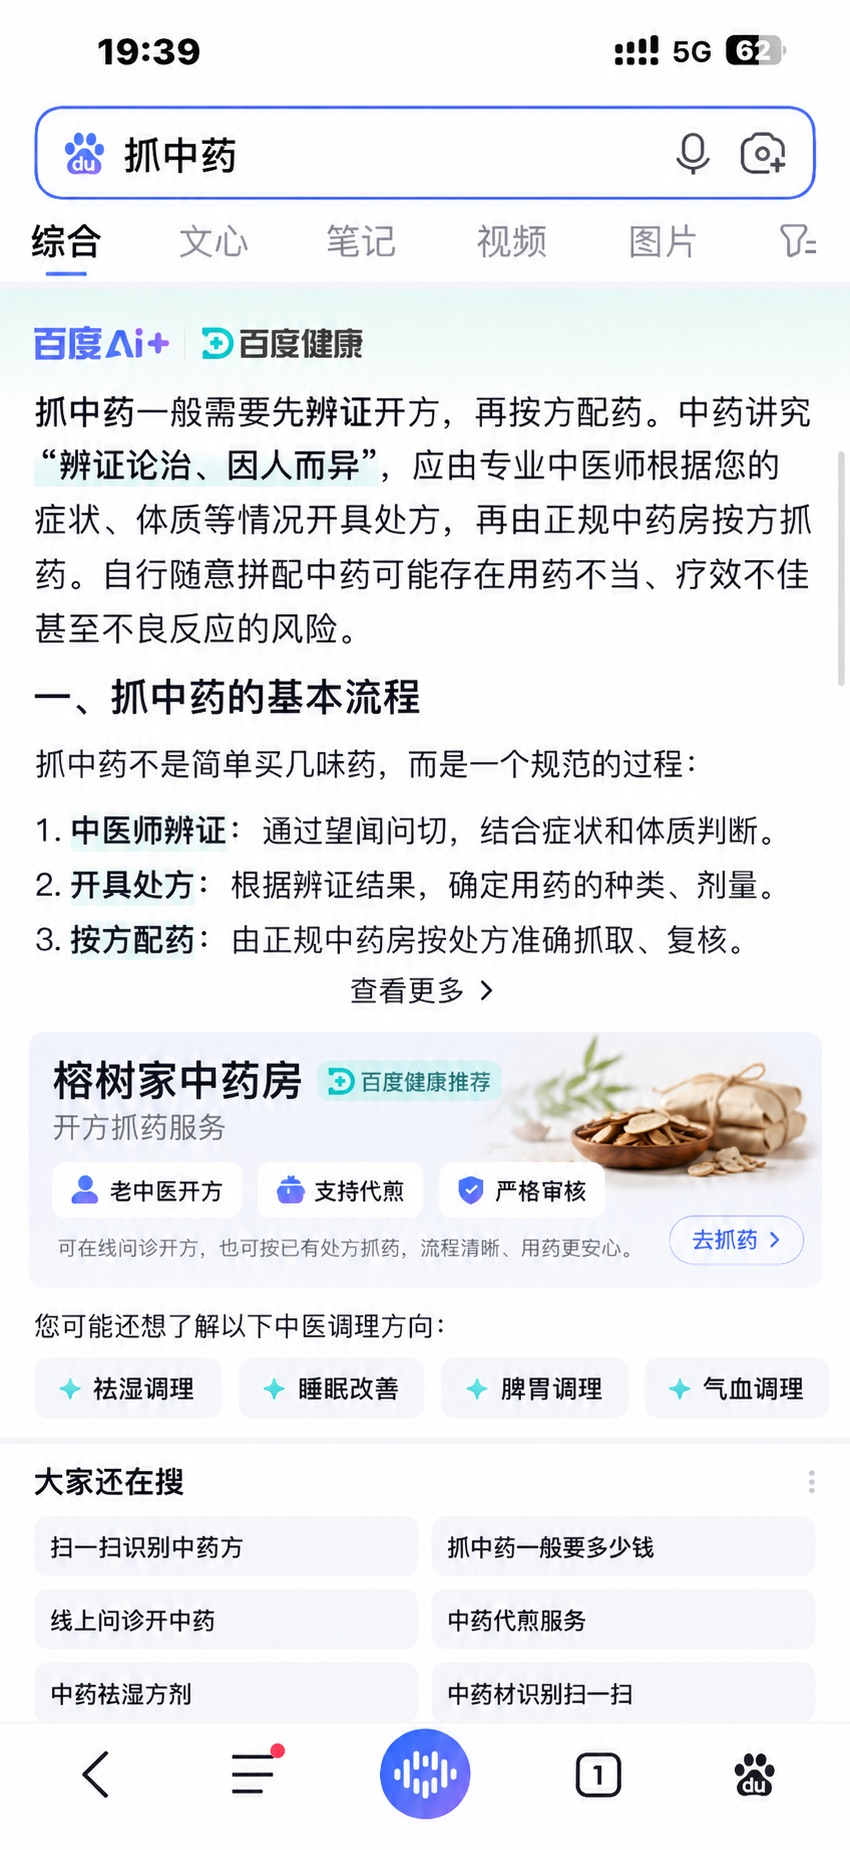
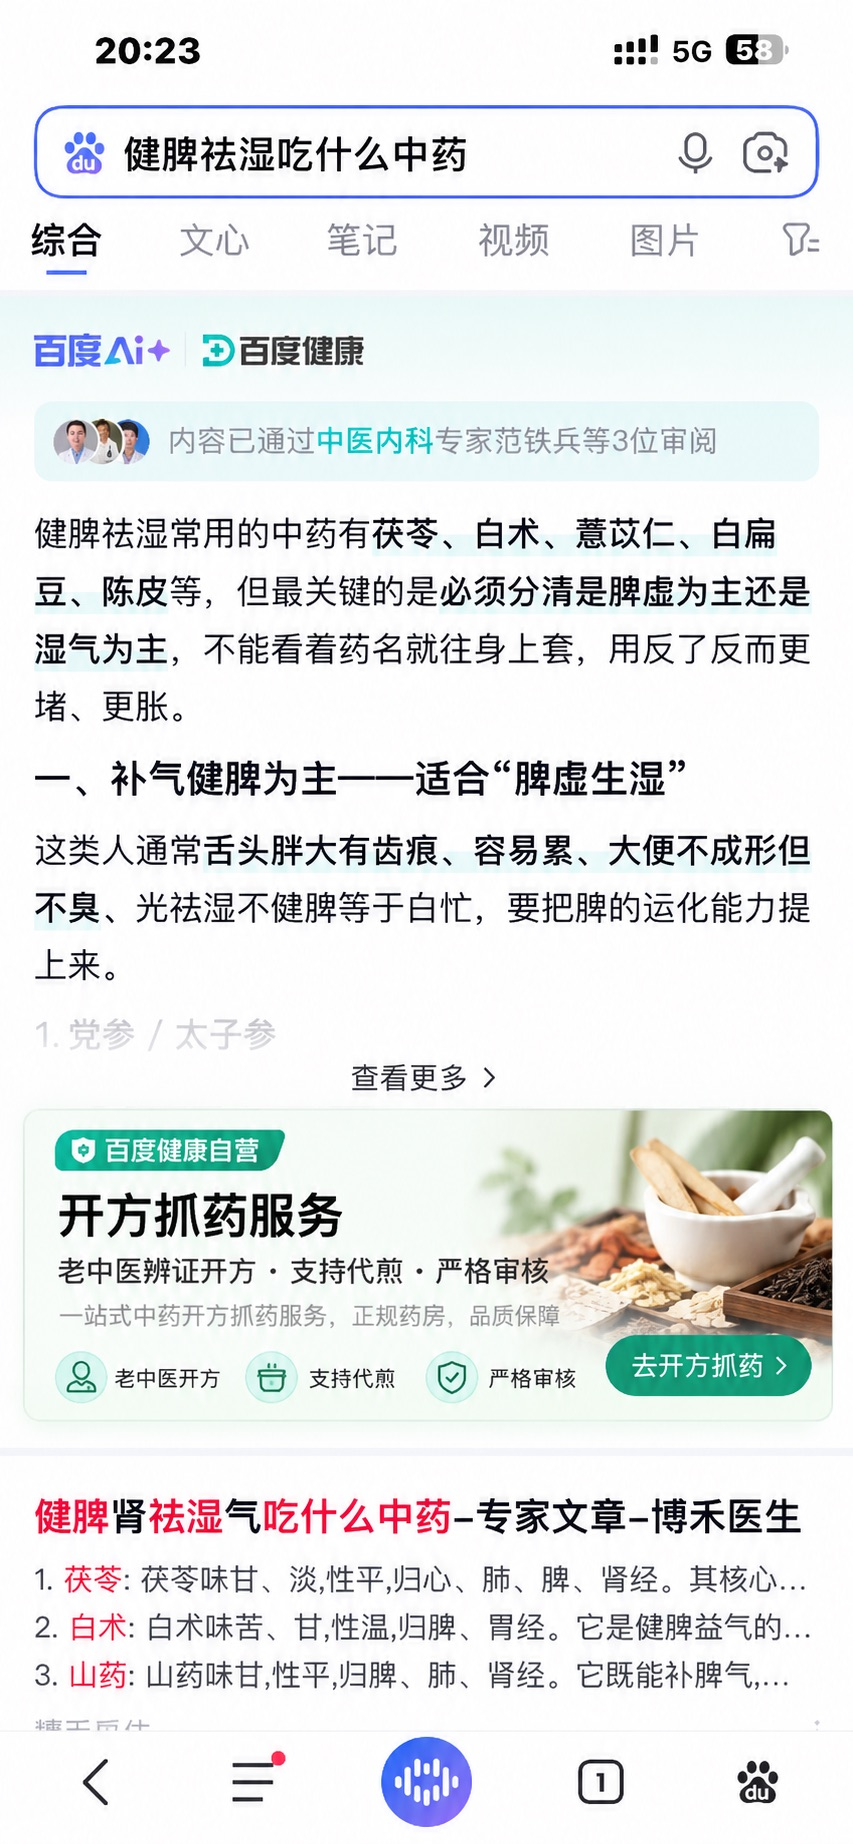
Update plan names and screenshots

diff --git a/index.html b/index.html
@@ -3,4 +3,4 @@
 </style>
 <style>
 body{background:#0c1220;overflow-x:hidden}body:before,body:after{content:"";position:fixed;z-index:-1;border-radius:50%;filter:blur(2px);opacity:.55;pointer-events:none}body:before{width:720px;height:720px;left:-170px;top:-230px;background:radial-gradient(circle,#3654be 0,#1d2d63 42%,transparent 70%)}body:after{width:680px;height:680px;right:-180px;bottom:-260px;background:radial-gradient(circle,#0b948f 0,#123b52 45%,transparent 72%)}.wrap{min-height:100vh;position:relative;gap:74px;padding:42px 68px;align-items:center}.wrap:before{content:"中医智能问诊 · 处方购药体验";position:absolute;top:34px;left:72px;color:#dce7ff;font-size:14px;letter-spacing:3px;opacity:.8}.phone{width:430px;height:900px;border:11px solid #17191f;border-radius:55px;background:#101116;box-shadow:0 36px 90px #0008,0 0 0 2px #676b75 inset,0 0 0 5px #050609 inset;overflow:hidden;position:relative}.phone:before{content:"";position:absolute;z-index:20;top:13px;left:50%;transform:translateX(-50%);width:150px;height:34px;border-radius:22px;background:#050506;box-shadow:0 1px 2px #fff2 inset;pointer-events:none}.phone:after{content:"";position:absolute;z-index:19;right:-14px;top:180px;width:4px;height:112px;border-radius:3px;background:#41434a;box-shadow:0 128px 0 #41434a;pointer-events:none}.screen{background:linear-gradient(180deg,#fbfcff 0%,#f5f7fb 52%,#f0f4f7 100%);padding-bottom:12px}.status{height:46px;padding:15px 22px 0;font-size:13px}.top{padding:14px 20px 8px;gap:16px}.title{font-size:23px;letter-spacing:.5px}.back{font-size:34px;font-weight:300}.search{margin:12px 16px;border:2px solid #5271e8;border-radius:20px;padding:14px 17px;font-size:21px;background:#fff;box-shadow:0 5px 16px #5068c51c}.tabs{padding:9px 8px 15px;font-size:19px}.hero{margin:0 0 13px;padding:21px 18px;background:linear-gradient(145deg,#ebfffd,#f4fbff);border-radius:28px 28px 0 0;font-size:17px;line-height:1.82;box-shadow:0 -3px 16px #9edfdc18 inset}.hero h3{font-size:20px}.card{margin:15px 14px;padding:15px;border-radius:20px;box-shadow:0 7px 24px #2f64731a}.thumb{width:88px;height:78px;border-radius:14px;background:linear-gradient(135deg,#d9b283,#8f5a36 55%,#3b261d)}.card h3{font-size:19px}.go{padding:11px 19px;box-shadow:0 5px 12px #18ad9f44}.section{padding:15px 17px}.section h2{font-size:21px;line-height:1.45}.chip{padding:11px 15px;border-radius:15px;background:#fff;box-shadow:0 3px 10px #33445d0b}.notice{padding:13px 18px;background:#e6fbfa;color:#079f9b;font-size:17px}.panel{margin:13px 11px;padding:16px;border-radius:21px;box-shadow:0 6px 20px #263b5510}.panel h2{font-size:23px}.option{padding:15px;border-radius:14px}.textarea{height:88px;background:#fafbfc}.bottom{padding:13px 17px 16px;background:#fffffff2;backdrop-filter:blur(12px);box-shadow:0 -5px 18px #3a52600c}.primary{padding:16px;border-radius:29px;background:linear-gradient(100deg,#18bdb2,#27c8bb);box-shadow:0 8px 18px #0eaa9f38}.chat{padding:16px}.bubble{padding:14px 16px;border-radius:18px;box-shadow:0 4px 14px #3240560c;font-size:17px}.rx{padding:16px;border-radius:21px;box-shadow:0 7px 20px #189c9418}.rxgrid{padding:11px;font-size:15px}.steps{width:300px;padding:28px 26px;border-radius:25px;background:#ffffffeb;backdrop-filter:blur(16px);box-shadow:0 22px 55px #0005;position:relative}.steps:before{content:"01 — 05";display:block;color:#16a9a0;font-size:12px;letter-spacing:2px;margin-bottom:8px}.steps h2{font-size:24px;margin-bottom:18px}.steps li{padding:17px 5px;font-size:16px}.hint{margin-top:24px;padding:12px 0 0;border-top:1px solid #e9edf2}@media(max-width:900px){.wrap{gap:28px;padding:30px}.wrap:before{left:32px}.phone{transform:scale(.86);transform-origin:center}.steps{width:260px}}
-</style></head><body><div class="scene"><div class="phone"><div class="screen"><div class="island"></div><img id="screen" src="plan1-1.png"><div id="hot" class="hotspot s1" title="点击商品卡"></div></div></div><aside class="panel"><h1>中医开方 · 演示流程</h1><div class="tabs"><button class="tab active" id="tab1">自然流量-榕树家</button><button class="tab" id="tab2">自然流量-经典方</button></div><div class="step active"><span class="dot">1</span><span><b>搜索结果</b><small>查看调经止痛方并进入问诊</small></span></div><div class="step"><span class="dot">2</span><span><b>补充问诊信息</b><small>选择就诊人和主要问题</small></span></div><div class="step"><span class="dot">3</span><span><b>中医问诊开方</b><small>医生接诊并分析体质</small></span></div><div class="step"><span class="dot">4</span><span><b>处方确认</b><small>核对药味与剂数</small></span></div><div class="step"><span class="dot">5</span><span><b>确认订单</b><small>选择配送并提交支付</small></span></div><div class="tip">点击手机页面中的主要操作区域继续体验。页面按上传截图比例展示。</div></aside></div><script>let p=1,plan=1;const screen=document.getElementById('screen'),hot=document.getElementById('hot'),steps=[...document.querySelectorAll('.step')];steps.forEach((el,i)=>el.onclick=()=>go(i+1));document.getElementById('tab1').onclick=()=>switchPlan(1);document.getElementById('tab2').onclick=()=>switchPlan(2);function switchPlan(x){plan=x;document.getElementById('tab1').classList.toggle('active',x===1);document.getElementById('tab2').classList.toggle('active',x===2);go(1)}function go(n){p=n;screen.src=plan===1?'plan1-'+n+'.png':'screen'+n+'.png';steps.forEach((s,i)=>s.classList.toggle('active',i===n-1));hot.className='hotspot '+(['','s1','s2','s3','s4','s5'][n]);hot.title=['','点击商品卡进入问诊','点击下一步','点击进入处方结果','点击确认处方','点击提交订单'][n];hot.onclick=()=>n===5?alert('演示订单已提交'):go(n+1)}hot.onclick=()=>go(2)</script></body></html>
+</style></head><body><div class="scene"><div class="phone"><div class="screen"><div class="island"></div><img id="screen" src="plan1-1.png"><div id="hot" class="hotspot s1" title="点击商品卡"></div></div></div><aside class="panel"><h1>中医开方 · 演示流程</h1><div class="tabs"><button class="tab active" id="tab1">泛中药需求</button><button class="tab" id="tab2">明确中药方需求</button></div><div class="step active"><span class="dot">1</span><span><b>搜索结果</b><small>查看调经止痛方并进入问诊</small></span></div><div class="step"><span class="dot">2</span><span><b>补充问诊信息</b><small>选择就诊人和主要问题</small></span></div><div class="step"><span class="dot">3</span><span><b>中医问诊开方</b><small>医生接诊并分析体质</small></span></div><div class="step"><span class="dot">4</span><span><b>处方确认</b><small>核对药味与剂数</small></span></div><div class="step"><span class="dot">5</span><span><b>确认订单</b><small>选择配送并提交支付</small></span></div><div class="tip">点击手机页面中的主要操作区域继续体验。页面按上传截图比例展示。</div></aside></div><script>let p=1,plan=1;const screen=document.getElementById('screen'),hot=document.getElementById('hot'),steps=[...document.querySelectorAll('.step')];steps.forEach((el,i)=>el.onclick=()=>go(i+1));document.getElementById('tab1').onclick=()=>switchPlan(1);document.getElementById('tab2').onclick=()=>switchPlan(2);function switchPlan(x){plan=x;document.getElementById('tab1').classList.toggle('active',x===1);document.getElementById('tab2').classList.toggle('active',x===2);go(1)}function go(n){p=n;screen.src=plan===1?'plan1-'+n+'.png':'screen'+n+'.png';steps.forEach((s,i)=>s.classList.toggle('active',i===n-1));hot.className='hotspot '+(['','s1','s2','s3','s4','s5'][n]);hot.title=['','点击商品卡进入问诊','点击下一步','点击进入处方结果','点击确认处方','点击提交订单'][n];hot.onclick=()=>n===5?alert('演示订单已提交'):go(n+1)}hot.onclick=()=>go(2)</script></body></html>
